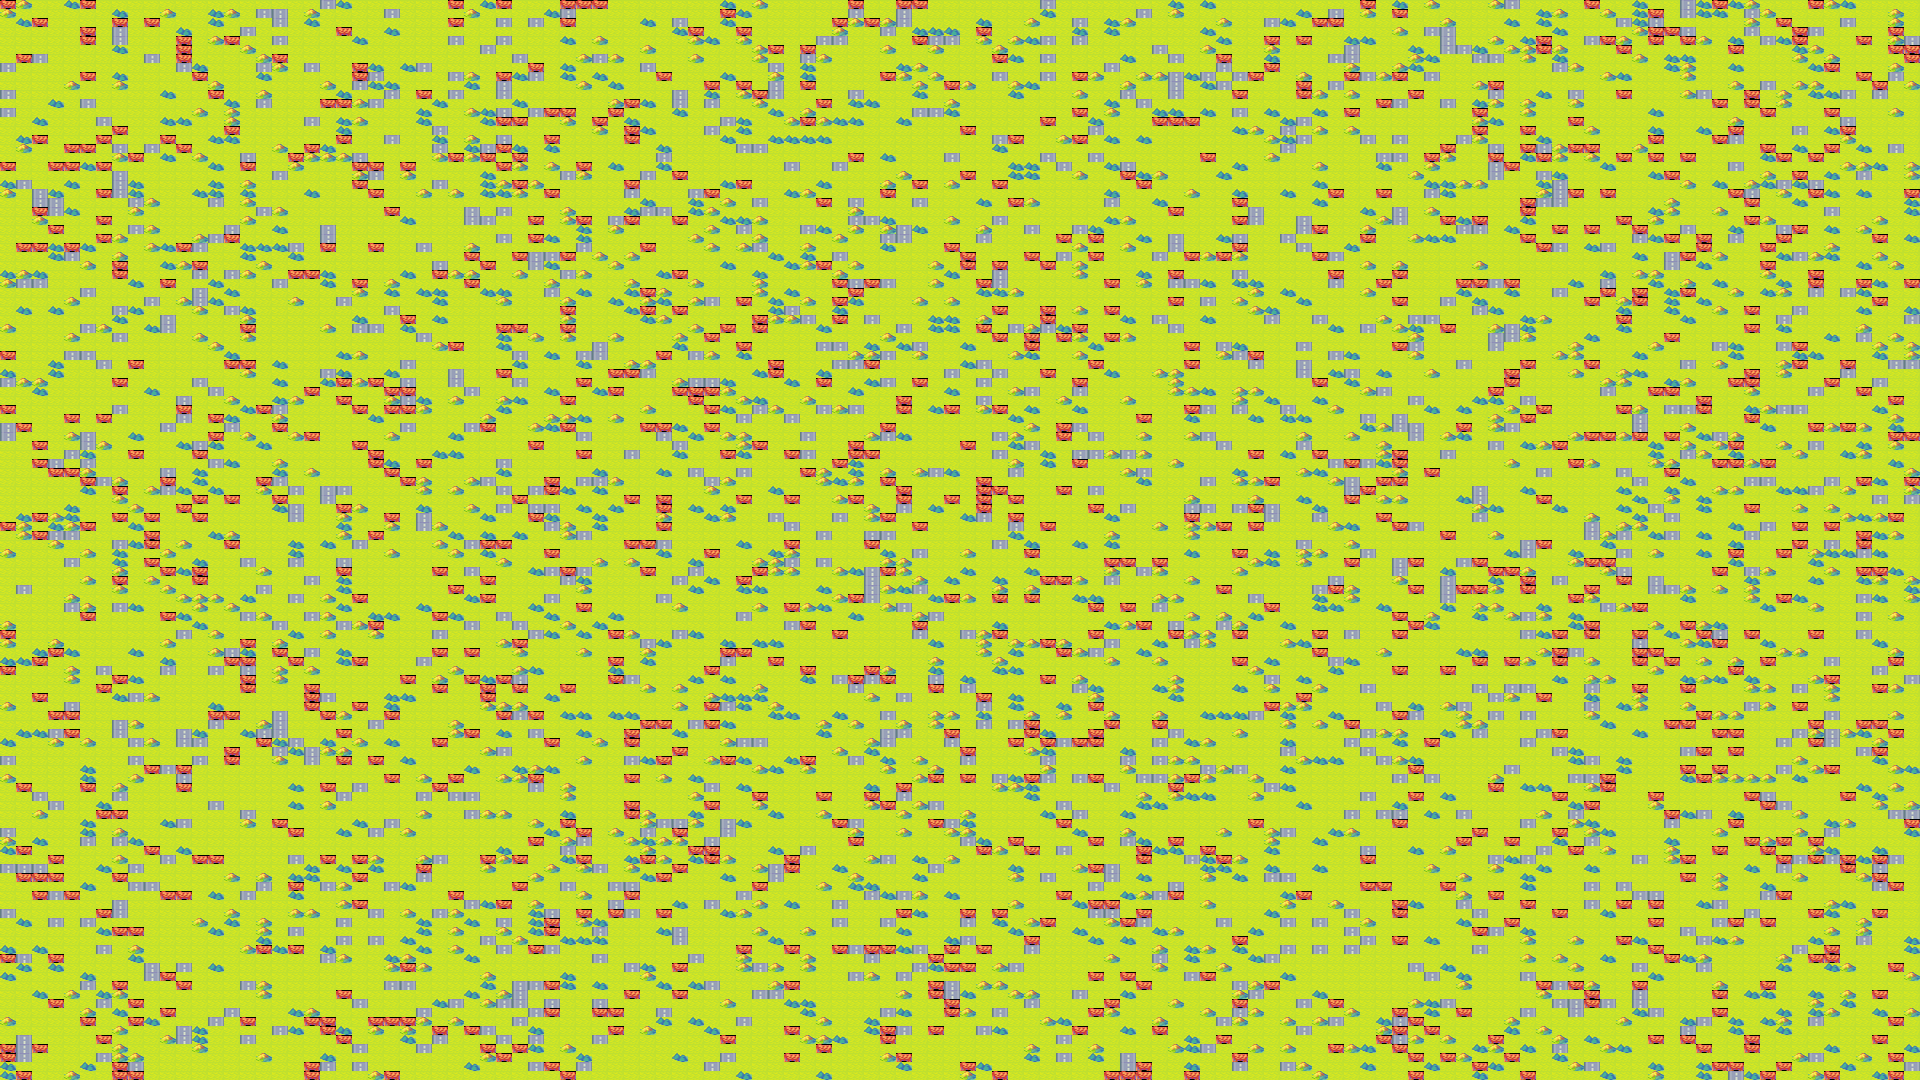
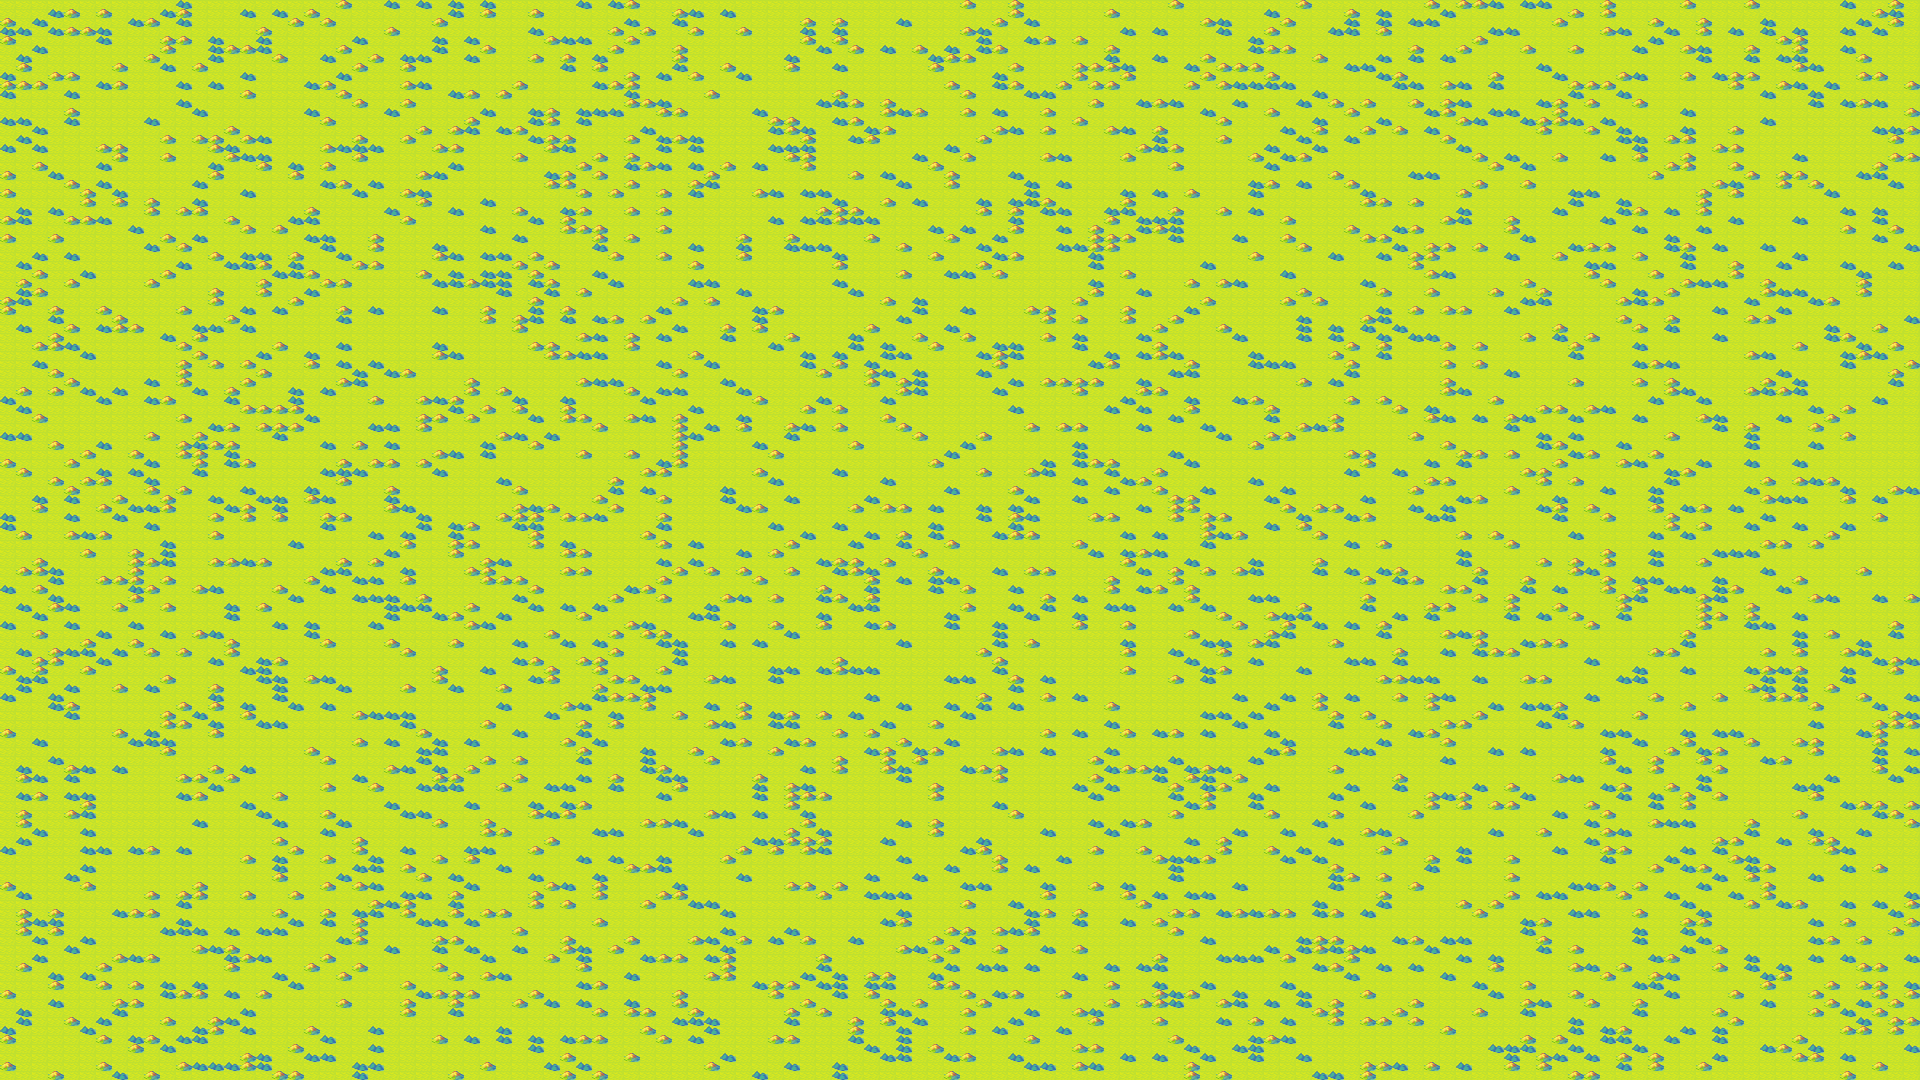
Updates to jet function, hitboxs being shown

diff --git a/jet.py b/jet.py
@@ -24,6 +24,9 @@ class Jet():
         img_copy = pygame.transform.rotate(self.plane, self.angle)
         rotated_rect = img_copy.get_rect(center = (round(self.x), round(self.y)))
         self.rect = rotated_rect
+        rotated_rect.width - 100
+        rotated_rect.height - 100
+        pygame.draw.rect(win, (255,0,0), rotated_rect)
         win.blit(img_copy, rotated_rect)
         
     def move(self, speed):

diff --git a/data.py b/data.py
@@ -9,7 +9,7 @@ class Data:
     SCREEN_WIDTH = 1920
     SCREEN_HEIGHT = 1080
     GRID_DIM = 15
-    WORLD = ip.initialize("Spiral 2/1920_by_1080.csv")
+    WORLD = ip.initialize("1920_by_1080_2.csv")
     img_w = 16
     img_h = 9
     dims = width, height = SCREEN_WIDTH, SCREEN_HEIGHT 
